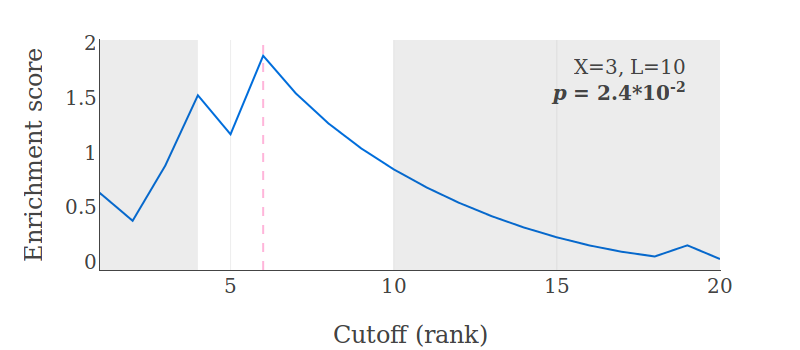
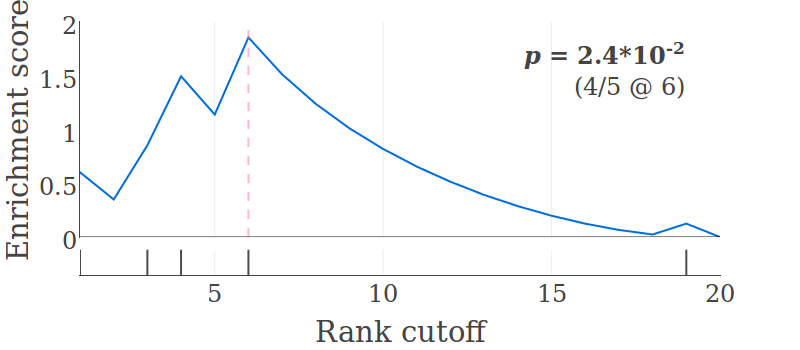
improved visualization; v2.4.7

diff --git a/xlmhg/visualize.py b/xlmhg/visualize.py
@@ -16,7 +16,13 @@
 
 """Python API for visualizing XL-mHG test results."""
 
+from __future__ import (absolute_import, division,
+                        print_function, unicode_literals)
+_oldstr = str
+from builtins import *
+
 from math import floor, ceil
+# from collections import Iterable
 
 import numpy as np
 import plotly.graph_objs as go
@@ -72,9 +78,9 @@ def get_hypergeometric_stats(N, indices):
 
 
 def get_result_figure(
-        result, show_title=False, show_inset=True,
+        result, show_title=False, title=None, show_inset=True,
         plot_fold_enrichment=False,
-        width=800, height=350, font_size=20, margin=None,
+        width=800, height=350, font_size=24, margin=None,
         font_family='Computer Modern Roman, serif',
         score_color='rgb(0,109,219)',
         enrichment_color='rgb(219,109,0)',
@@ -84,37 +90,40 @@ def get_result_figure(
 
     Parameters
     ----------
-    result: `mHGResult`
+    result : `mHGResult`
         The test result.
-    show_title: bool, optional
-        Whether to include a title in the figure. [False]
-    show_inset: bool, optional
+    show_title : bool, optional
+        Whether to include a title in the figure. If `title` is not
+        ``None``, this parameter is ignored. [False]
+    title : str or None, optional
+        Figure title. If not ``None``, `show_title` is ignored. [None]
+    show_inset : bool, optional
         Whether to show test parameters and p-value as an inset. [True]
-    plot_fold_enrichment: bool, optional
+    plot_fold_enrichment : bool, optional
         Whether to plot the fold enrichment on a second axis. [False]
-    width: int, optional
+    width : int, optional
         The width of the figure (in pixels). [800]
-    height: int, optional
+    height : int, optional
         The height of the figure (in pixels). [350]
-    font_size: int, optional
+    font_size : int, optional
         The font size to use. [20]
-    margin: dict, optional
+    margin : dict, optional
         A dictionary specifying the figure margins (in pixels).
         Valid keys are "l" (left), "r" (right), "t" (top), and "b" (bottom).
         Missing keys are replaced by Plotly default values. If ``None``, will
         be set to a dictionary specifying a left margin of 100 px, and a top
         margin of 40 px. [None]
-    font_family: str, optional
+    font_family : str, optional
         The font family (name) to use. ["Computer Modern Roman, serif"]
-    score_color: str, optional
+    score_color : str, optional
         The color used for plotting the enrichment scores. ["rgb(0,109,219)"]
-    enrichment_color: str, optional
+    enrichment_color : str, optional
         The color used for plotting the fold enrichment values (if enabled).
         ["rgb(219,109,0)"]
-    cutoff_color: str, optional
+    cutoff_color : str, optional
         The color used for indicating the XL-mHG test cutoff.
         ["rgba(255, 109,182,0.5)"]
-    line_width: int or float, optional
+    line_width : int or float, optional
         The line width used for plotting. [2.0]
 
     Returns
@@ -125,27 +134,23 @@ def get_result_figure(
 
     assert isinstance(result, mHGResult)
     assert isinstance(show_title, bool)
+    if title is not None:
+        assert isinstance(title, (str, _oldstr))
     assert isinstance(show_inset, bool)
     assert isinstance(plot_fold_enrichment, bool)
-    assert isinstance(font_family, str)
+    assert isinstance(font_family, (str, _oldstr))
     assert isinstance(width, int)
     assert isinstance(height, int)
     assert isinstance(font_size, (int, float))
     if margin is not None:
         assert isinstance(margin, dict)
-    assert isinstance(score_color, str)
-    assert isinstance(enrichment_color, str)
+    assert isinstance(score_color, (str, _oldstr))
+    assert isinstance(enrichment_color, (str, _oldstr))
     assert isinstance(line_width, (int, float))
-
-    if margin is None:
-        margin = dict(
-            l=100,
-            t=40,
-        )
 
     pvals, folds = get_hypergeometric_stats(result.N, result.indices)
     pval_max = max(int(ceil(-np.log10(np.amin(pvals)))), 1.0)
-    pval_min = -0.05 * pval_max
+    pval_min = 0.0
     X = result.X
     L = result.L
     N = result.N
@@ -171,14 +176,35 @@ def get_result_figure(
     if plot_fold_enrichment:
         tick_color = score_color
     yaxis = go.YAxis(
-        title='-log<sub>10</sub>(hypergeom. p-value)',
+        #title='-log<sub>10</sub>(hypergeom. p-value)',
+        title='Enrichment score',
         tickfont=dict(
             color=tick_color,
         ),
+        autorange=False,
+        #range=[pval_min, pval_max],
         range=[pval_min, pval_max],
         showgrid=False,
+        #zeroline=False,
         zeroline=False,
         showline=True,
+        domain=[0.15, 1.0],
+        #mirror=True,
+    )
+
+    # additional y axis at the the bottom,
+    # showing the occurrences of the "1's"
+    yaxis3 = go.YAxis(
+        domain=[0, 0.1],
+        anchor='x',
+        mirror=True,
+        zeroline=False,
+        showline=False,
+        showgrid=False,
+        autorange=False,
+        range=[0, 1],
+        ticks='',
+        showticklabels=False,
     )
 
     # format p-value string
@@ -189,9 +215,20 @@ def get_result_figure(
 
     # fe_str = '%.1fx' % (result.fold_enrichment)
 
-    title = None
-    if show_title:
-        title = 'XL-mHG test result (N=%d, K=%d)' %(N, K)
+    # if show_title:
+    if show_title and title is None:
+        title = 'XL-mHG test result (N=%d, K=%d)' % (N, K)
+
+    # specify margins (if not provided)
+    if margin is None:
+        t = 42
+        if title is None:
+            t = 22
+        margin = dict(
+            l=80,
+            t=t,
+            b=75,
+        )
 
     if plot_fold_enrichment:
         fold_min_int = -0.3
@@ -233,12 +270,15 @@ def get_result_figure(
         family=font_family,
     )
 
+    # rectangles showing which ranks are excluded
+    # in the calculation of the test statistic
+    # (due to X and L parameters)
     rect_col = 'rgba(60,60,60,0.10)'
     rect1 = {
         'type': 'rect',
         'x0': 0,
         'y0': pval_min,
-        'x1': result.indices[result.X-1] + 1,
+        'x1': result.indices[result.X-1] + 0.5,
         'y1': pval_max,
         'line': dict(
             width=0,
@@ -247,7 +287,7 @@ def get_result_figure(
     }
     rect2 = {
         'type': 'rect',
-        'x0': L,
+        'x0': L+0.5,
         'y0': pval_min,
         'x1': N,
         'y1': pval_max,
@@ -257,6 +297,23 @@ def get_result_figure(
         'fillcolor': rect_col,
     }
 
+    # bars in second Y axis symbolizing the occurrences of the "1's"
+    bars = []
+    for n in result.indices:
+        bars.append(dict(
+            type='line',
+            x0=n+1.0,
+            y0=0.0,
+            x1=n+1.0,
+            y1=1.0,
+            line=dict(
+                color='black',
+                width=line_width,
+            ),
+            yref='y3',
+            opacity=0.7,
+        ))
+
     annotations = []
     if show_inset:
         annotations.append(
@@ -265,10 +322,16 @@ def get_result_figure(
                 y=0.95,
                 align='right',
                 showarrow=False,
-                text='X=%d, L=%d<br><b><i>p</i> = %s</b>' \
-                     % (result.X, result.L, pval_str),
+                #text='X=%d, L=%d<br><b><i>p</i> = %s</b>' \
+                #     % (result.X, result.L, pval_str),
+                #text='%d/%d @ %d<br><b><i>p</i> = %s</b>' \
+                #     % (result.k, result.K, result.cutoff, pval_str),
+                text='<b><i>p</i> = %s</b><br>(%d/%d @ %d)' \
+                     % (pval_str, result.k, result.K, result.cutoff),
                 xref='paper',
                 yref='paper',
+                xanchor='right',
+                yanchor='top',
                 font=font,
             ),
         )
@@ -286,17 +349,31 @@ def get_result_figure(
         ),
     }
 
+    line2 = {
+        'type': 'line',
+        'x0': 0,
+        'y0': 0,
+        'x1': result.N,
+        'y1': 0,
+        'line': dict(
+            color='black',
+            width=1.0,
+        ),
+    }
+
     layout = go.Layout(
         width=width,
         height=height,
         margin=margin,
         xaxis=dict(
-            title='Cutoff (rank)',
+            title='Rank cutoff',
             zeroline=False,
-            range=[1, result.N],
+            range=[1.0, result.N],
             showline=True,
+            anchor='y3',
         ),
         yaxis=yaxis,
+        yaxis3=yaxis3,
         titlefont=dict(
             size=font_size,
             family=font_family,
@@ -310,7 +387,8 @@ def get_result_figure(
             rect1,
             rect2,
             line,
-        ],
+            line2,
+        ] + bars,
         title=title,
         annotations=annotations,
     )

diff --git a/setup.py b/setup.py
@@ -28,7 +28,7 @@ from wheel.bdist_wheel import bdist_wheel
 here = path.abspath(path.dirname(__file__))
 root = 'xlmhg'
 description = 'XL-mHG: A Semiparametric Test for Enrichment'
-version = '2.4.6'
+version = '2.4.7'
 
 long_description = ''
 with io.open(path.join(here, 'README.rst'), encoding='UTF-8') as fh:

diff --git a/CHANGELOG.rst b/CHANGELOG.rst
@@ -35,6 +35,11 @@ Changelog
 ~~~~~~~~~~~~~~~~~~
 - Fixed minor issue
 
+2.4.7 (2017-01-14)
+~~~~~~~~~~~~~~~~~~
+- Added bottom panel to visualization of test result showing occurrences of the
+  "1's"
+
 2.3.0 (2016-08-08)
 ------------------
 - Added arguments `exact_pval` and `escore_pval_thresh` to
